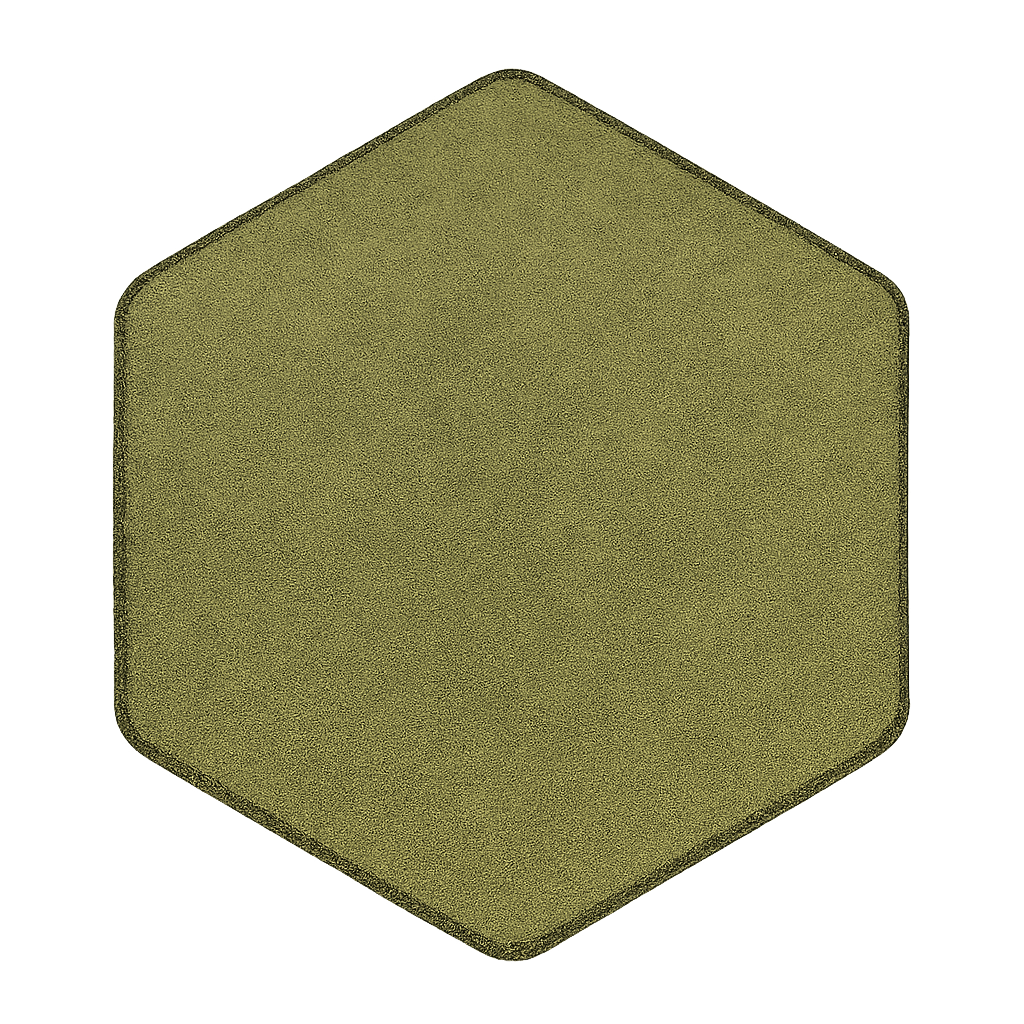
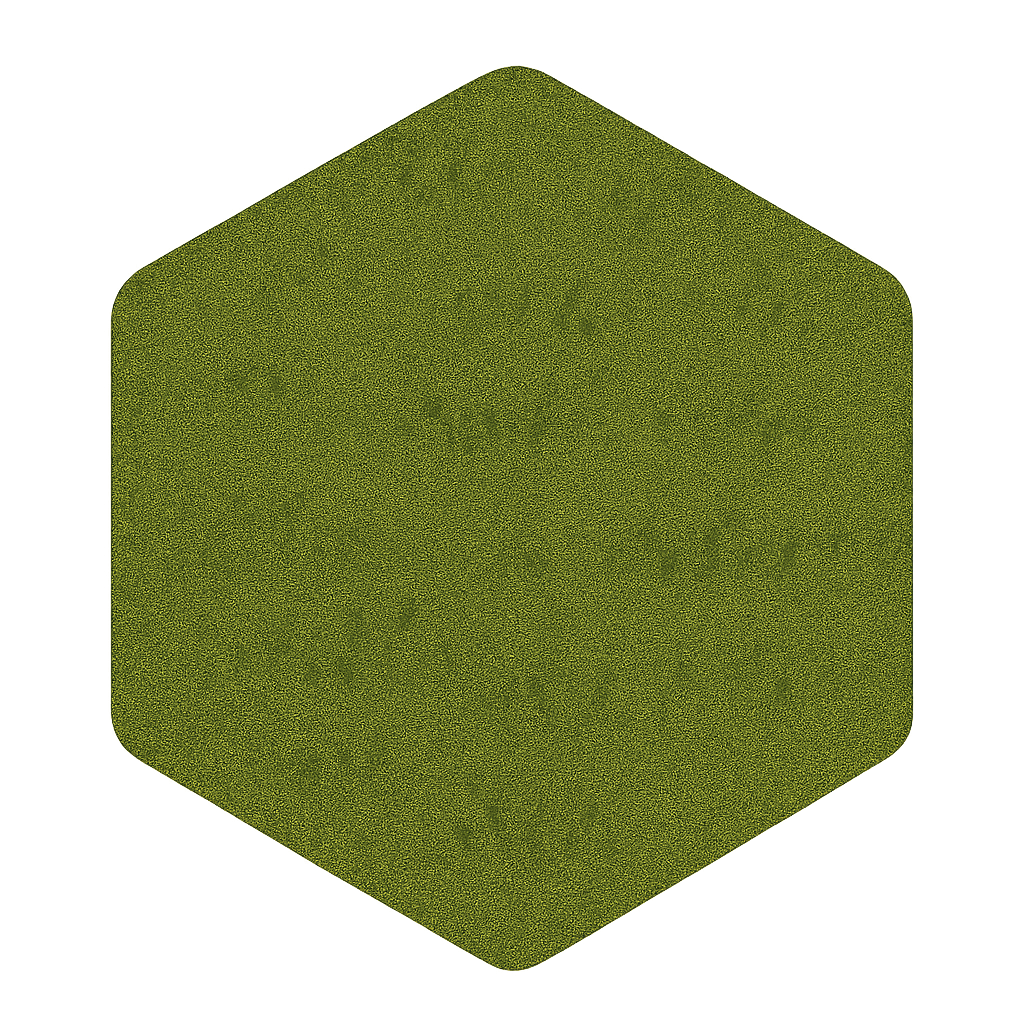
Add PNG asset support for snow, desert, dense forest, and deep water terrains
- Added snow.png asset loading for snow terrain tiles
  - Added desert.png asset loading for desert terrain tiles
  - Added dense-forrest.png asset loading for dense forest terrain tiles
  - Added deep-water.png asset loading for deep water terrain tiles
  - All new terrain assets follow existing scaling and caching patterns
  - Graceful fallback to procedural colors when assets unavailable

diff --git a/game/renderer.py b/game/renderer.py
@@ -158,8 +158,28 @@ class Renderer:
                 if terrain:
                     if terrain.type == TerrainType.WATER:
                         terrain_image = self.asset_manager.get_terrain_image("water", self.hex_grid.hex_size)
+                    elif terrain.type == TerrainType.DEEP_WATER:
+                        terrain_image = self.asset_manager.get_terrain_image("deep-water", self.hex_grid.hex_size)
                     elif terrain.type == TerrainType.PLAINS:
                         terrain_image = self.asset_manager.get_terrain_image("plain", self.hex_grid.hex_size)
+                    elif terrain.type == TerrainType.HILLS:
+                        terrain_image = self.asset_manager.get_terrain_image("hills", self.hex_grid.hex_size)
+                    elif terrain.type == TerrainType.LIGHT_FOREST:
+                        terrain_image = self.asset_manager.get_terrain_image("light-forrest", self.hex_grid.hex_size)
+                    elif terrain.type == TerrainType.FOREST:
+                        terrain_image = self.asset_manager.get_terrain_image("forrest", self.hex_grid.hex_size)
+                    elif terrain.type == TerrainType.DENSE_FOREST:
+                        terrain_image = self.asset_manager.get_terrain_image("dense-forrest", self.hex_grid.hex_size)
+                    elif terrain.type == TerrainType.SWAMP:
+                        terrain_image = self.asset_manager.get_terrain_image("swamp", self.hex_grid.hex_size)
+                    elif terrain.type == TerrainType.MOUNTAINS:
+                        terrain_image = self.asset_manager.get_terrain_image("mountains", self.hex_grid.hex_size)
+                    elif terrain.type == TerrainType.HIGH_HILLS:
+                        terrain_image = self.asset_manager.get_terrain_image("high-hills", self.hex_grid.hex_size)
+                    elif terrain.type == TerrainType.SNOW:
+                        terrain_image = self.asset_manager.get_terrain_image("snow", self.hex_grid.hex_size)
+                    elif terrain.type == TerrainType.DESERT:
+                        terrain_image = self.asset_manager.get_terrain_image("desert", self.hex_grid.hex_size)
                     has_asset = terrain_image is not None
                 
                 if terrain_image:

diff --git a/game/asset_manager.py b/game/asset_manager.py
@@ -39,9 +39,14 @@ class AssetManager:
             else:
                 image = image.convert()
             
-            # Scale if requested
+            # Scale if requested using high-quality smoothscale
             if scale_size:
-                image = pygame.transform.scale(image, scale_size)
+                try:
+                    # Use smoothscale for better quality (bilinear filtering)
+                    image = pygame.transform.smoothscale(image, scale_size)
+                except pygame.error:
+                    # Fallback to regular scale if smoothscale fails
+                    image = pygame.transform.scale(image, scale_size)
             
             # Cache and return
             self.image_cache[cache_key] = image
@@ -63,8 +68,17 @@ class AssetManager:
             Scaled pygame.Surface or None if not found
         """
         filename = f"{terrain_name}.png"
-        # Scale to roughly fit within hex bounds
-        scale_size = (int(hex_size * 1.8), int(hex_size * 1.8))
+        # Calculate proper hex dimensions
+        import math
+        hex_width = int(math.sqrt(3) * hex_size)
+        hex_height = int(2 * hex_size)
+        
+        # Scale to fit properly within hex boundaries 
+        # Use the inscribed circle diameter (hex_size * 2 * 0.866) for best fit
+        inscribed_diameter = int(hex_size * 1.732)  # sqrt(3) ≈ 1.732
+        target_size = min(inscribed_diameter, 96)  # Conservative size for clean borders
+        scale_size = (target_size, target_size)
+        
         return self.load_image(filename, scale_size)
     
     def clear_cache(self):

diff --git a/CHANGELOG.md b/CHANGELOG.md
@@ -17,7 +17,7 @@ and this project adheres to [Semantic Versioning](https://semver.org/spec/v2.0.0
 - PNG asset support for terrain rendering
   - AssetManager class for loading and caching image assets
   - Automatic scaling of terrain images to match zoom level
-  - Support for water.png and plain.png terrain textures
+  - Support for water.png, deep-water.png, plain.png, hills.png, high-hills.png, light-forrest.png, forrest.png, dense-forrest.png, swamp.png, mountains.png, snow.png, and desert.png terrain textures
   - Graceful fallback to procedural rendering when assets unavailable
   - Assets stored in `/assets/` directory with organized structure
 - Zoom-aware coordinate system
